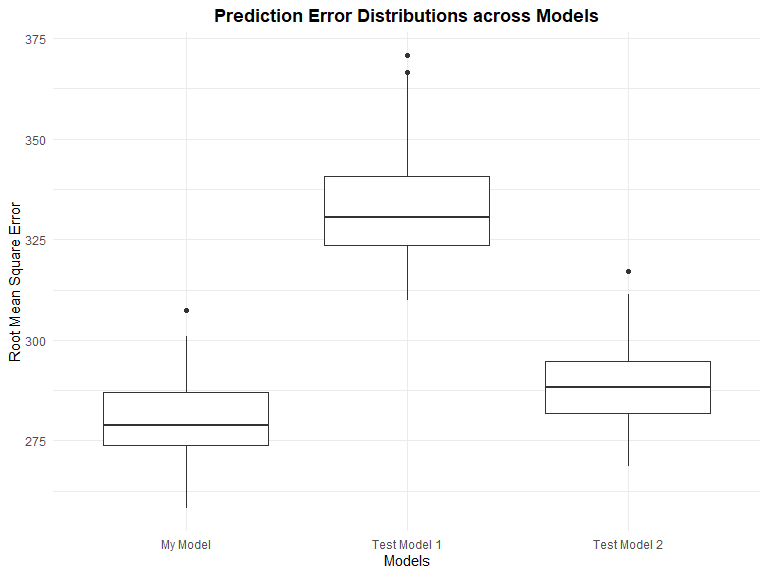
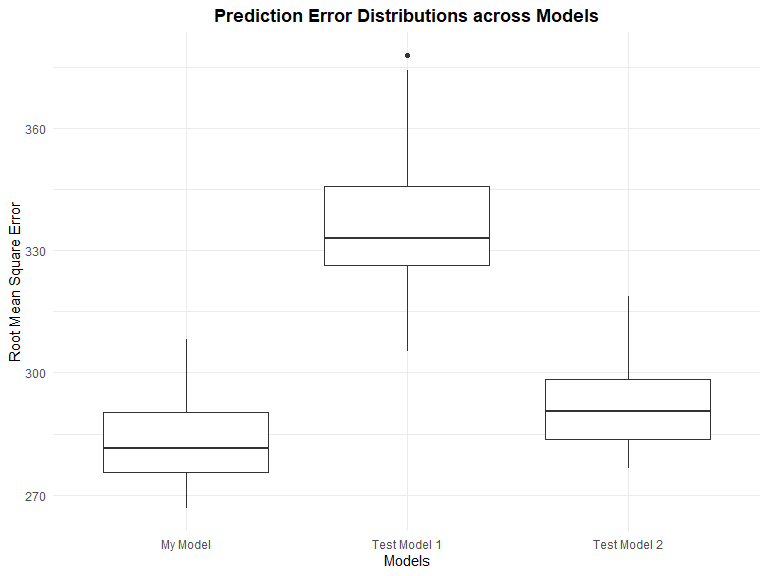
Proposed a regression model for birthweight

diff --git a/p8105_hw6_zs2539.md b/p8105_hw6_zs2539.md
@@ -409,9 +409,10 @@ birthweight_raw %>%
 
 <img src="p8105_hw6_zs2539_files/figure-gfm/unnamed-chunk-10-1.png" width="90%" />
 \* Based on t-test, the variables with p-value less than 0.01 are to be
-selected as predictors. To simple, the continuous are to be selected.
+selected as potential predictors. To simple, the continuous are to be
+selected.
 
-#### Fitting the linear model
+#### Scatter plots of Birth Weight vs. potential predictors
 
 ``` r
 continuous_variables =  
@@ -434,21 +435,31 @@ for (i in continuous_variables) {
 ```
 
 <img src="p8105_hw6_zs2539_files/figure-gfm/unnamed-chunk-11-1.png" width="90%" /><img src="p8105_hw6_zs2539_files/figure-gfm/unnamed-chunk-11-2.png" width="90%" /><img src="p8105_hw6_zs2539_files/figure-gfm/unnamed-chunk-11-3.png" width="90%" /><img src="p8105_hw6_zs2539_files/figure-gfm/unnamed-chunk-11-4.png" width="90%" /><img src="p8105_hw6_zs2539_files/figure-gfm/unnamed-chunk-11-5.png" width="90%" /><img src="p8105_hw6_zs2539_files/figure-gfm/unnamed-chunk-11-6.png" width="90%" /><img src="p8105_hw6_zs2539_files/figure-gfm/unnamed-chunk-11-7.png" width="90%" /><img src="p8105_hw6_zs2539_files/figure-gfm/unnamed-chunk-11-8.png" width="90%" /><img src="p8105_hw6_zs2539_files/figure-gfm/unnamed-chunk-11-9.png" width="90%" /><img src="p8105_hw6_zs2539_files/figure-gfm/unnamed-chunk-11-10.png" width="90%" />
+\* `bhead`, `blength`, `fincome`,`gaweeks`, `smoken` showed a relatively
+significant linear relationship with birth weight.
+
+#### Collinearity Check
 
 ``` r
 selected_variables =
   birthweight_df %>%
-  select(bhead, blength, delwt, gaweeks, wtgain, bwt)
+  select(bhead, blength, fincome, gaweeks, smoken, bwt)
 chart.Correlation(selected_variables, method = "pearson")
 ```
 
 <img src="p8105_hw6_zs2539_files/figure-gfm/unnamed-chunk-12-1.png" width="90%" />
+\* From the plot, among predictors, `bhead` vs `blength` or `gaweeks`,
+`blength` vs `gaweeks` showed a potential collinearity.
+
+#### Final selection of predictors including categorical variables
 
 ``` r
 selected_variables =
   birthweight_df %>%
   select(bhead, blength, gaweeks, bwt, babysex, mrace)
 ```
+
+#### Fitting the linear model with finally selected predictors
 
 ``` r
 fit_final <- lm(bwt ~ bhead + blength + gaweeks + babysex + mrace + bhead:blength +
@@ -483,6 +494,8 @@ summary(fit_final) %>%
     ##       <dbl>         <dbl> <dbl>     <dbl>   <dbl> <dbl>       <int> <dbl>
     ## 1     0.704         0.703  279.     1143.       0     9        4332  4342
 
+#### Residual plot
+
 ``` r
 selected_variables %>%
   add_residuals(fit_final) %>%
@@ -497,10 +510,10 @@ selected_variables %>%
 
 <img src="p8105_hw6_zs2539_files/figure-gfm/unnamed-chunk-15-1.png" width="90%" />
 
-#### Cross Validation
+#### Comparison in terms of the cross-validated prediction error
 
 ``` r
-set.seed(77)
+set.seed(2022)
 cv_dataset <-
   selected_variables %>% 
   crossv_mc(n = 100,test = 0.2)
@@ -525,6 +538,8 @@ cv_df <-
     rmse_given_model2 = map2_dbl(linear_mod3, test, ~rmse(model = .x, data = .y))
    )
 ```
+
+#### Root Mean Square Error in the three models
 
 ``` r
 cv_df %>% 
